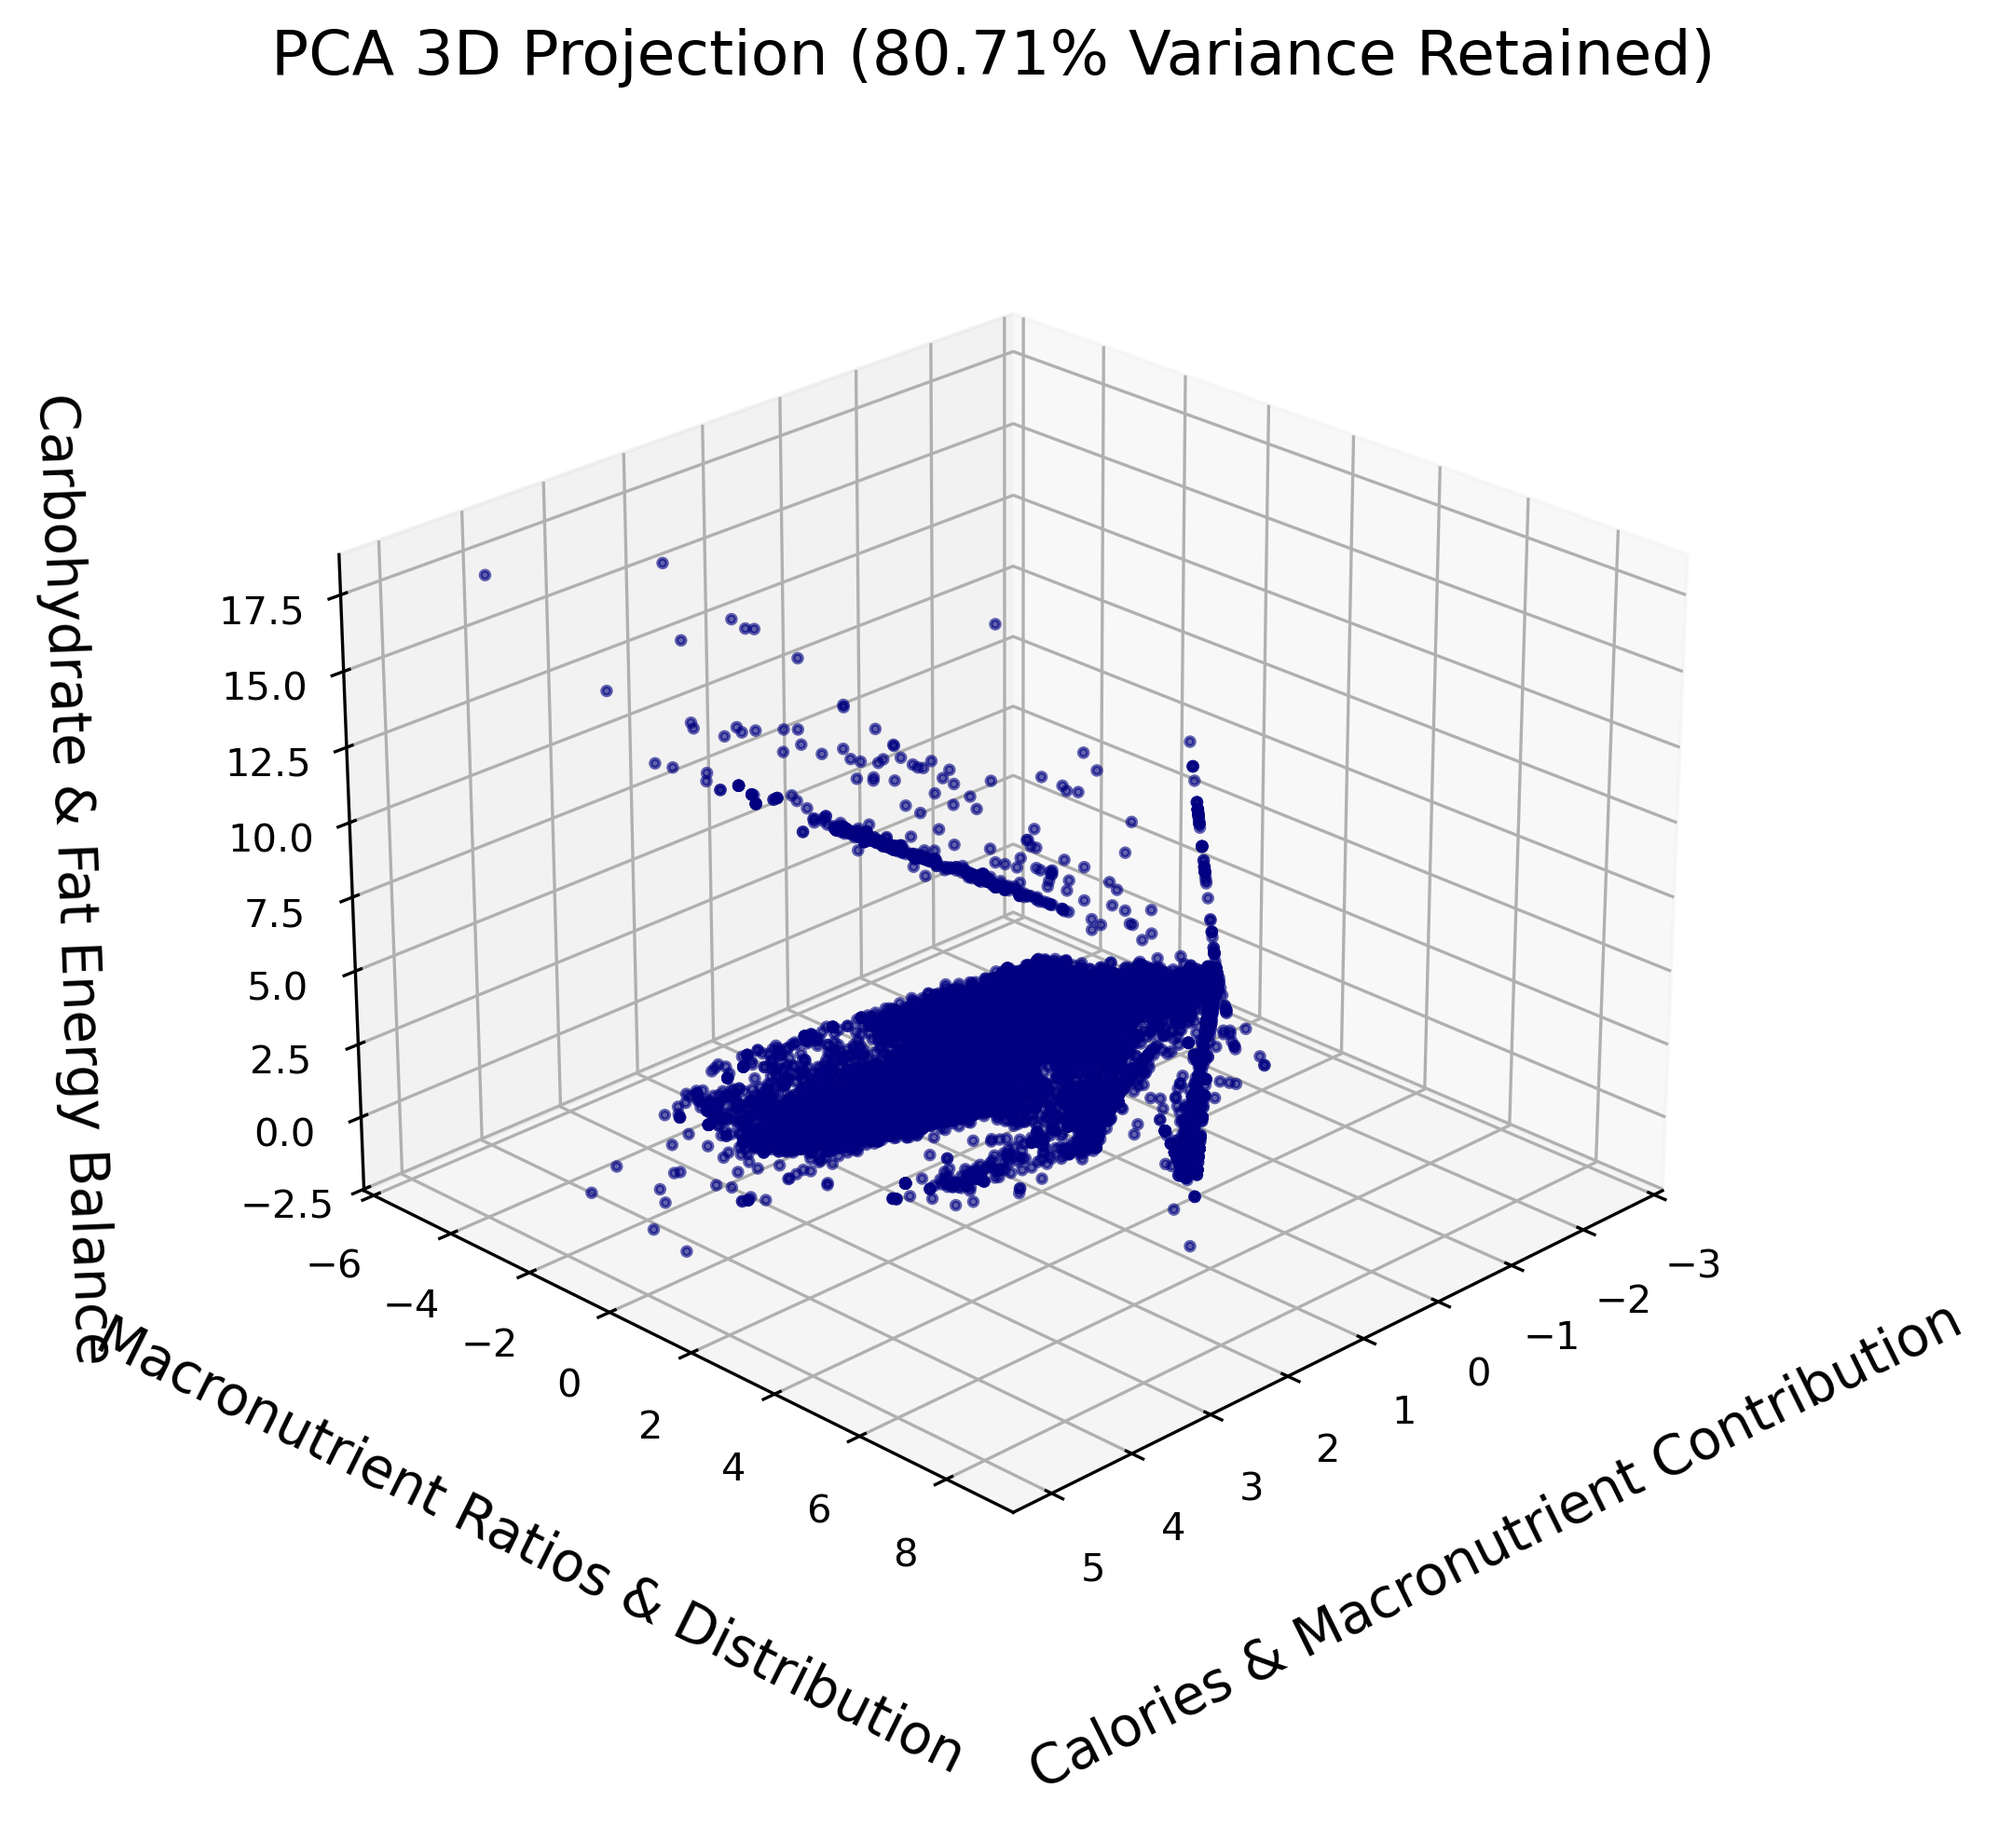
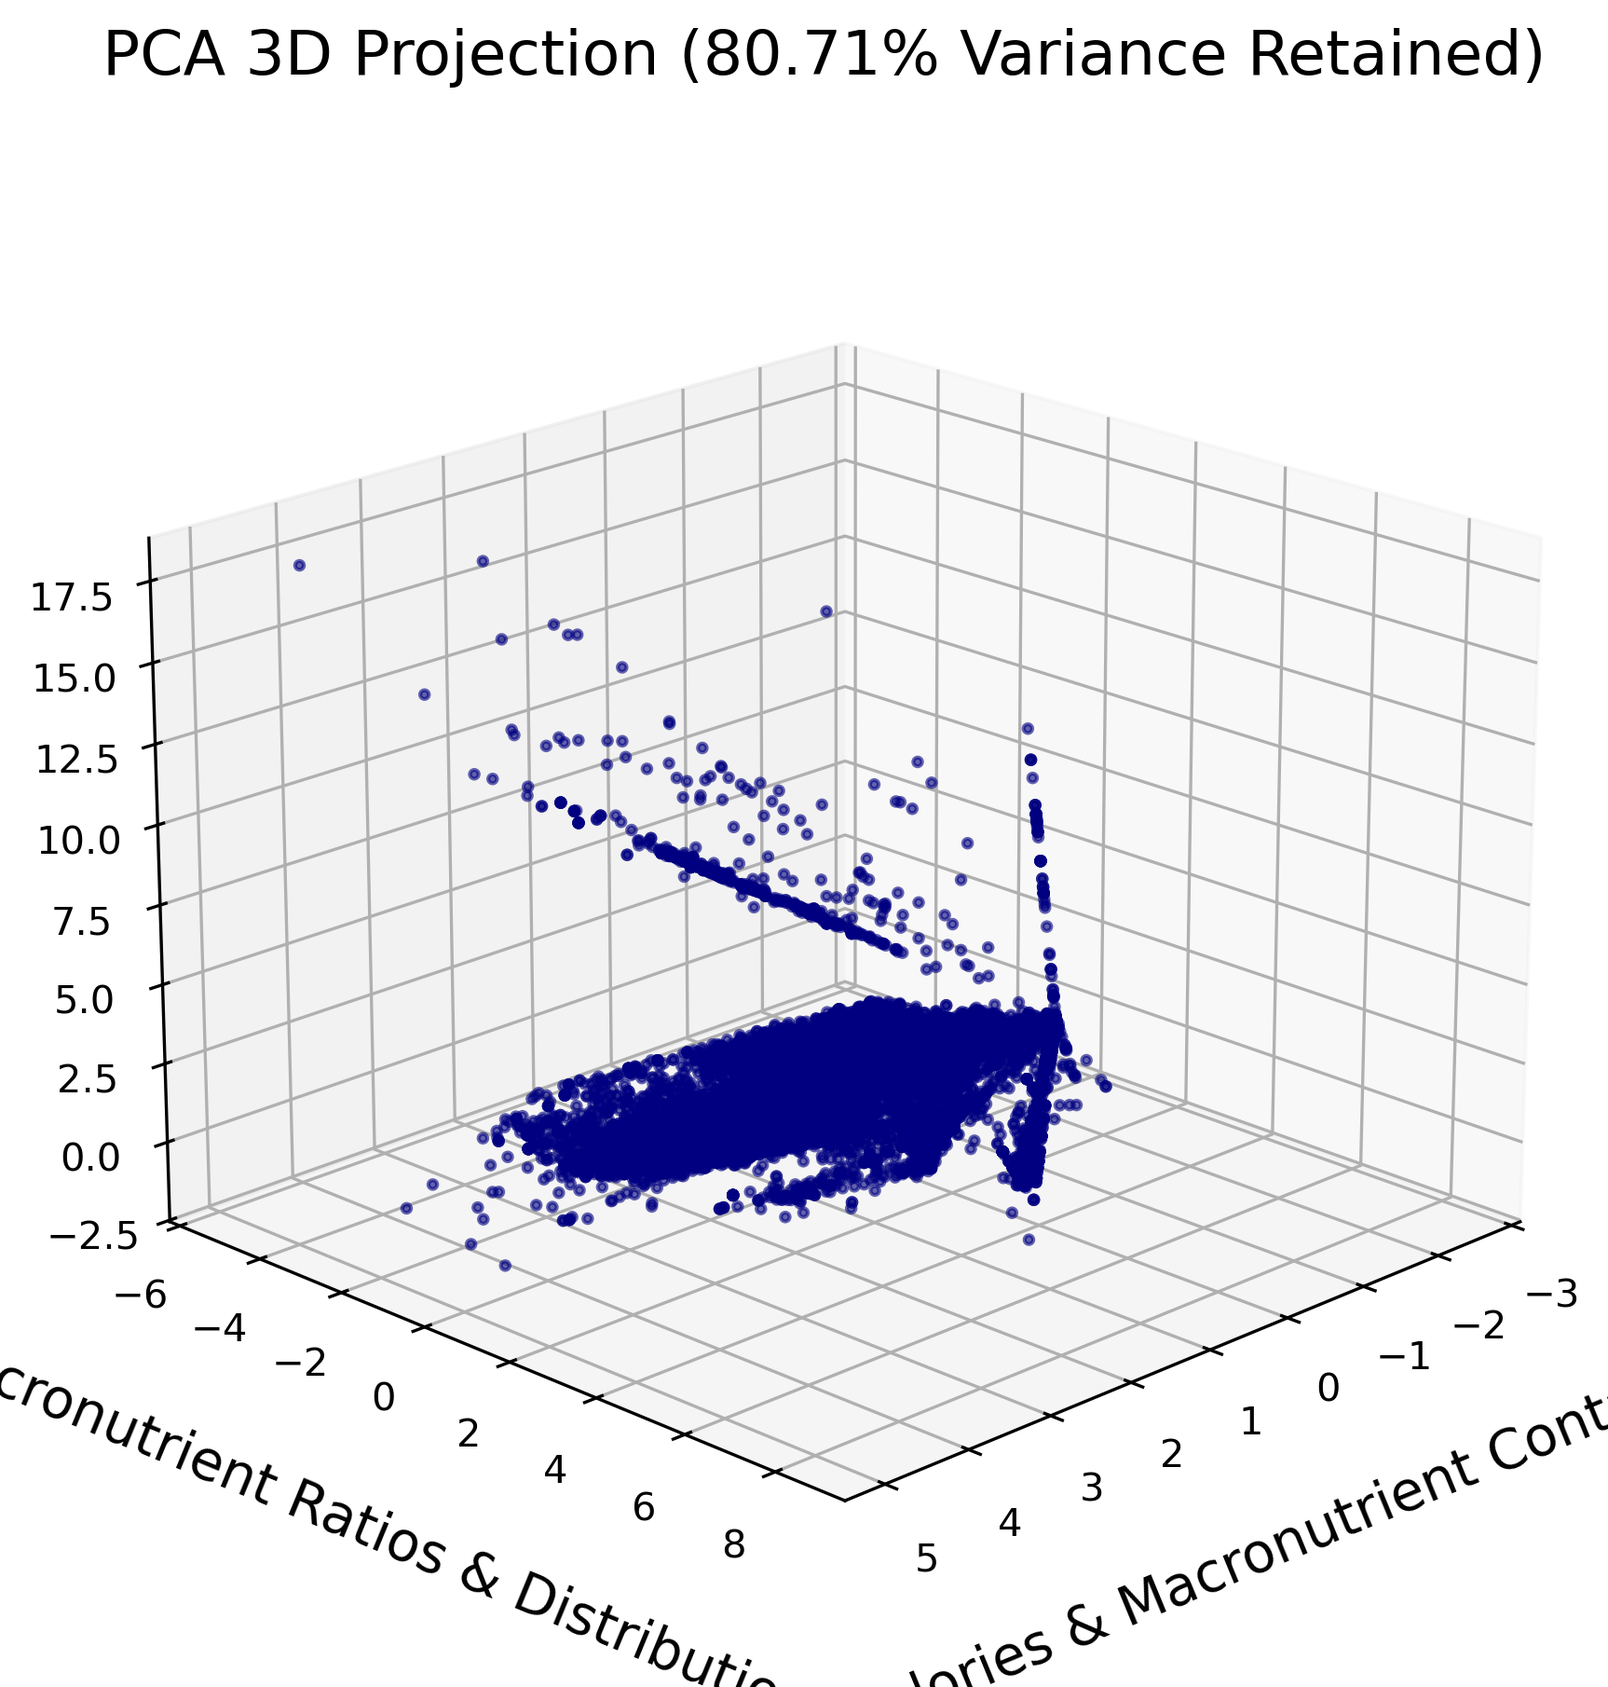
pca 3d visibility

diff --git a/pca.py b/pca.py
@@ -95,30 +95,35 @@ import matplotlib.pyplot as plt
 from mpl_toolkits.mplot3d import Axes3D
 
 # 🔹 Static 3D PCA Plot using Matplotlib (Full Dataset)
-fig = plt.figure(figsize=(12, 8))  # Slightly larger figure for better visibility
+fig = plt.figure(figsize=(10, 7))
 ax = fig.add_subplot(111, projection="3d")
 
-# Scatter plot with **full dataset**
+# Scatter plot with full dataset
 ax.scatter(
     df_pca_3D["PC1"], df_pca_3D["PC2"], df_pca_3D["PC3"], 
     alpha=0.6, s=5, color="navy"
 )
 
-# 🔹 Proper Axis Labels Based on PCA Loadings
-ax.set_xlabel("Calories & Macronutrient Contribution", fontsize=14, labelpad=20)
-ax.set_ylabel("Macronutrient Ratios & Distribution", fontsize=14, labelpad=20)
-ax.set_zlabel("Carbohydrate & Fat Energy Balance", fontsize=14, labelpad=20)
-ax.set_title(f"PCA 3D Projection ({explained_variance_3D:.2f}% Variance Retained)", fontsize=16, pad=25)
+# 🔹 Set Proper Axis Labels Based on PCA Loadings
+ax.set_xlabel("Calories & Macronutrient Contribution", fontsize=14, labelpad=15)
+ax.set_ylabel("Macronutrient Ratios & Distribution", fontsize=14, labelpad=15)
+ax.set_zlabel("Carbohydrate & Fat Energy Balance", fontsize=14, labelpad=15)
+ax.set_title(f"PCA 3D Projection ({explained_variance_3D:.2f}% Variance Retained)", fontsize=16, pad=20)
 
-# 🔹 Adjust margins & layout to prevent text from getting cut
-plt.subplots_adjust(left=0.2, right=0.8, top=0.85, bottom=0.2)
+# 🔹 Adjust Viewing Angle for Better Readability
+ax.view_init(elev=20, azim=45)  # Adjust elevation & azimuth angle
 
-# 🔹 Rotate axes slightly for better visibility
-ax.view_init(elev=25, azim=45)
+# 🔹 Rotate Axis Labels to Avoid Overlap
+ax.xaxis.label.set_rotation(15)
+ax.yaxis.label.set_rotation(-15)
+ax.zaxis.label.set_rotation(90)
 
-# 🔹 Save the 3D plot properly without cutting labels
+# 🔹 Modify Grid Appearance for Clarity
+ax.grid(color='gray', linestyle='dashed', linewidth=0.5)
+
+# 🔹 Save the 3D plot properly without label cutoff
 pca_3D_plot_path = os.path.join(visuals_folder, "PCA_3D_plot.png")
-plt.savefig(pca_3D_plot_path, dpi=300, bbox_inches="tight", bbox_extra_artists=[ax.xaxis.label, ax.yaxis.label, ax.zaxis.label, ax.title])
+plt.savefig(pca_3D_plot_path, dpi=300, bbox_inches="tight")
 
 # Display the final plot
 plt.show()
